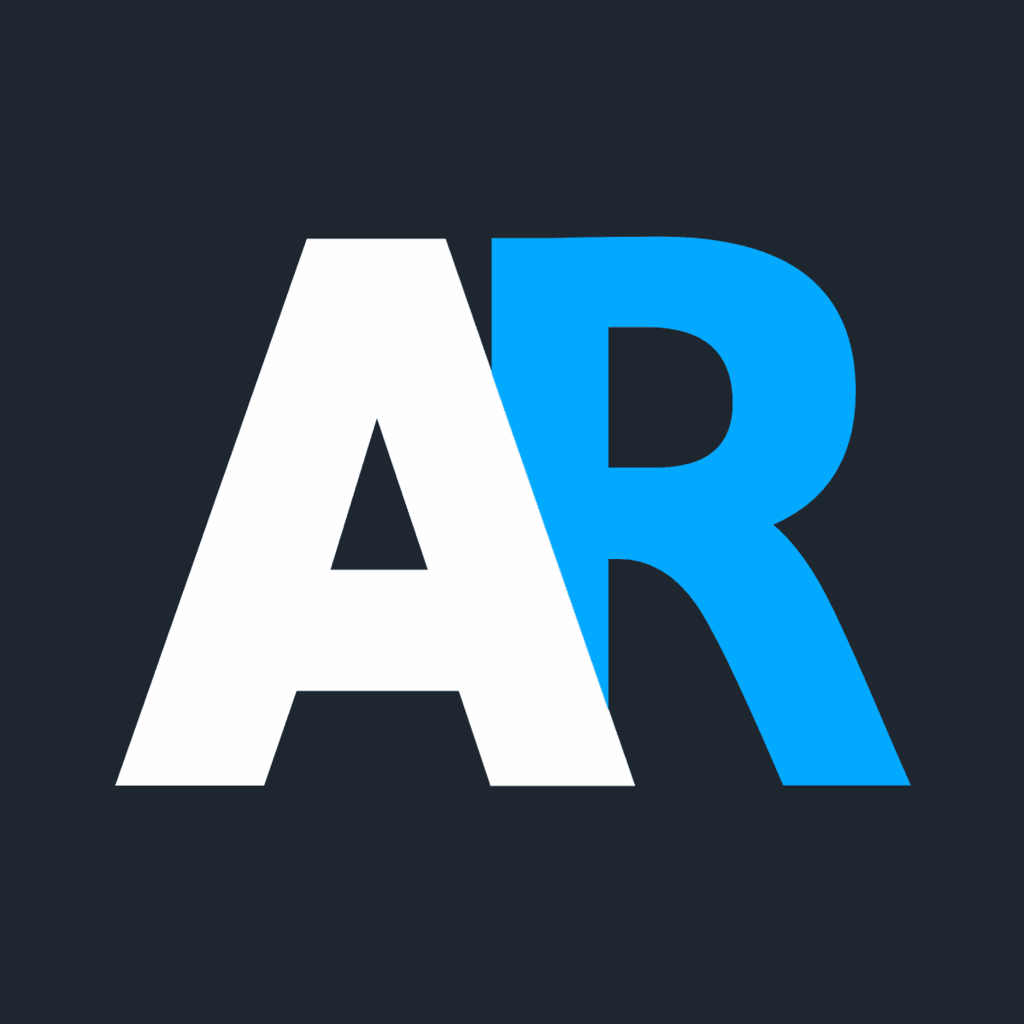
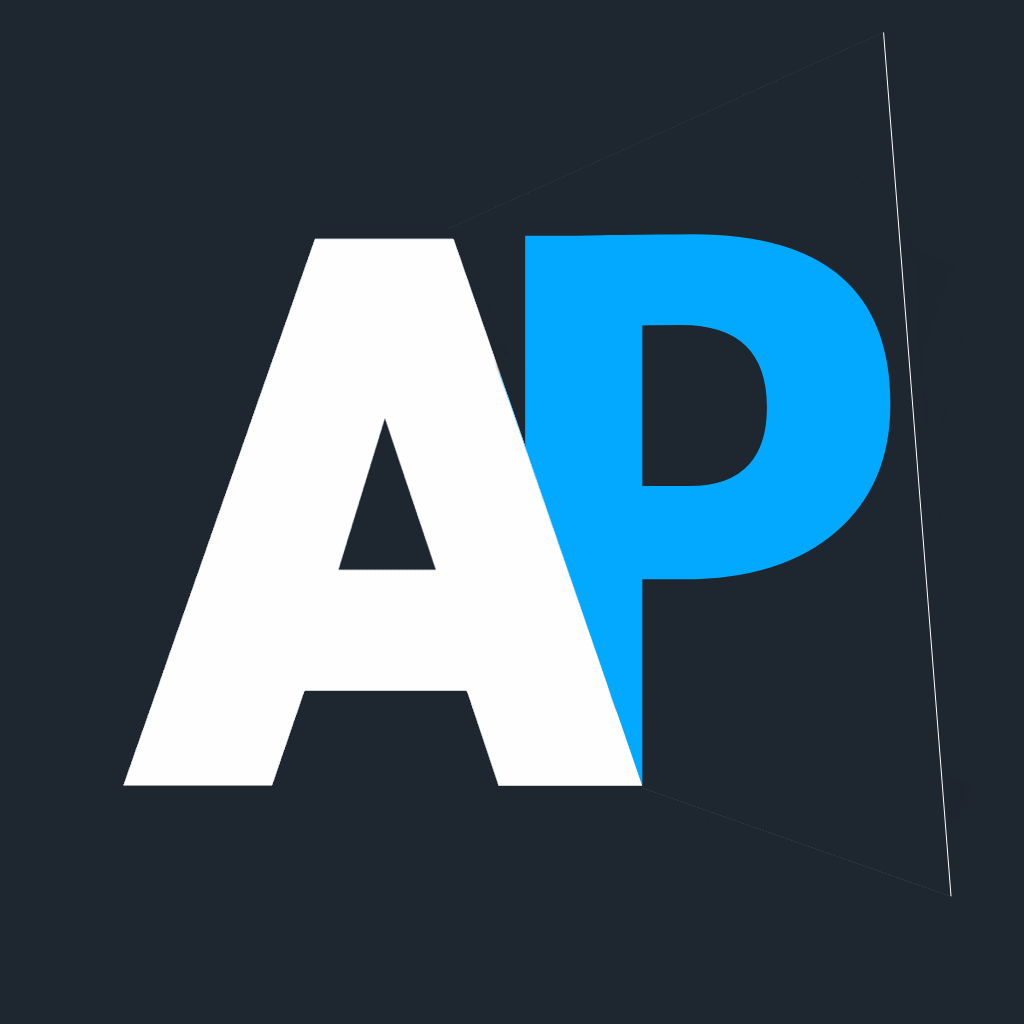
update extension name

diff --git a/README.md b/README.md
@@ -1,2 +1,2 @@
-# AniList Recap
+# AniPortable
 Extension for generating AniList yearly stats
